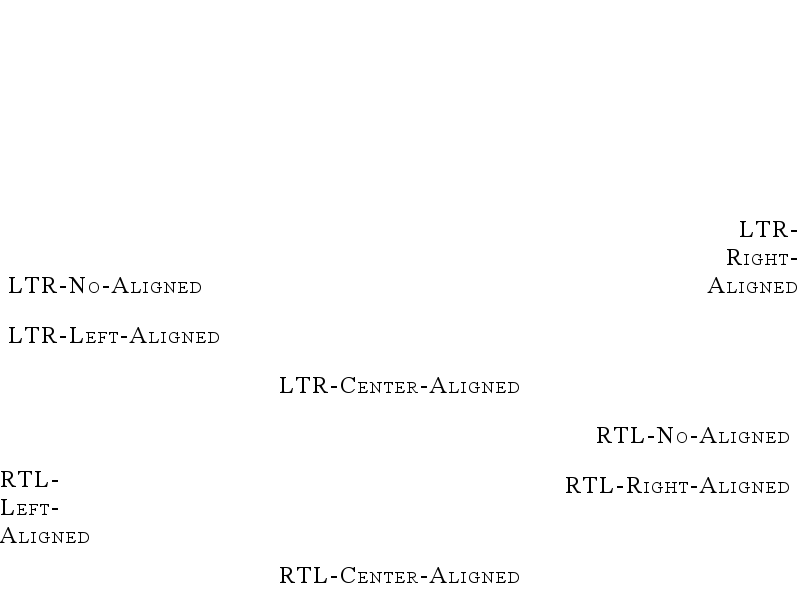
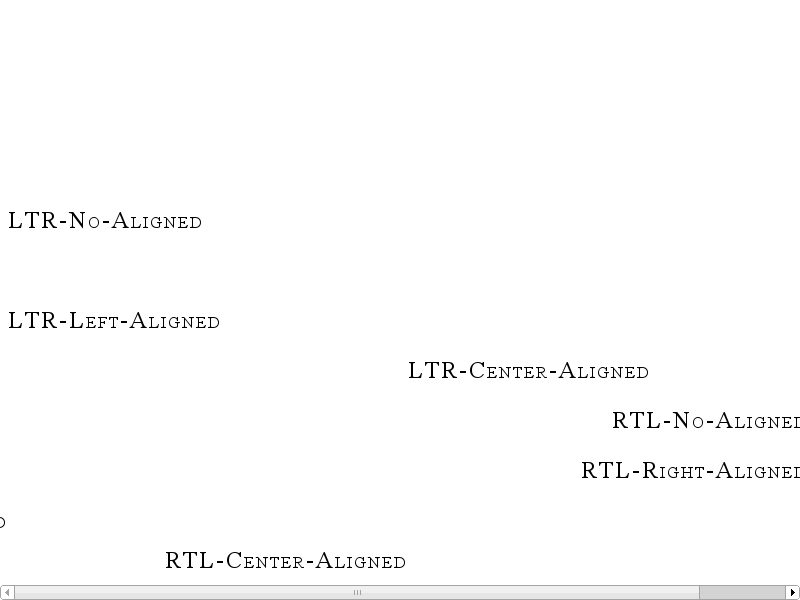
REGRESSION (r94492): Unstable layout of static block inside text-align: center div https://bugs.webkit.org/show_bug.cgi?id=77754
Reviewed by David Hyatt.

Source/WebCore:

Text-align of 'center' on an out-of-flow element determines its x-position in the line - it
doesn't mean that the element should be centred in the line as though it were a block of text.

This is a partial revert of http://trac.webkit.org/changeset/113584 and a correction to
http://trac.webkit.org/changeset/94492.

Tests: fast/css/center-align-absolute-position-inline-block.html
       fast/css/center-align-absolute-position.html

* rendering/RenderBlock.cpp:
(WebCore::RenderBlock::layoutPositionedObjects): Remove an update to the static position when
  it depended on the child's width. Reverts code added in r113584.
* rendering/RenderBlock.h:
(RenderBlock): Remove child parameter from startAlignedOffsetForLine()
* rendering/RenderBlockLineLayout.cpp:
(WebCore::setStaticPositions): ditto
(WebCore::RenderBlock::startAlignedOffsetForLine): No need to account for the child's width when calculating
  the offset for the line.

LayoutTests:

* fast/css/align-positioned-object-on-resize-expected.txt: Removed.
* fast/css/align-positioned-object-on-resize.html: Removed.
* fast/css/bug4860-absolute-inline-child-inherits-alignment-expected.png: Removed.
* fast/css/bug4860-absolute-inline-child-inherits-alignment-expected.txt: Removed.
* fast/css/bug4860-absolute-inline-child-inherits-alignment.html: Removed.
    These tests are no longer valid. They expect an out-of-flow block to align with the
[…]

diff --git a/fast/inline/left-right-center-inline-alignment-in-ltr-and-rtl-blocks.html b/fast/inline/left-right-center-inline-alignment-in-ltr-and-rtl-blocks.html
@@ -4,7 +4,7 @@
     'Hello World, And Stuff!' should be aligned 150 pixels to the left of the center.
     https://bugs.webkit.org/show_bug.cgi?id=4860-->
 </head>
-<body>
+<body style="width: 800px;">
 
 <div align="center" style="direction: rtl;">
 <font style="font-size:24px; font-variant:small-caps;letter-spacing:2px; position:absolute; bottom:10px;">RTL-Center-Aligned</font>
@@ -35,7 +35,7 @@
 </div>
 
 <div style="direction: ltr;">
-<font style="font-size:24px; font-variant:small-caps;letter-spacing:2px; position:absolute; bottom:300px;">LTR-No-Aligned</font>
+<font style="font-size:24px; font-variant:small-caps;letter-spacing:2px; position:absolute; bottom:350px;">LTR-No-Aligned</font>
 </div>
 
 </body></html>

diff --git a/fast/css/center-align-absolute-position-inline-block.html b/fast/css/center-align-absolute-position-inline-block.html
@@ -1,0 +1,24 @@
+<html>
+<head>
+    <style>
+    #block {
+        margin: 0px;
+        padding: 0px;
+        position: absolute;
+        width: 200px;
+        background: blue;
+        height: 20px;
+        display: inline-block;
+    }
+    </style>
+</head>
+<body style="width: 800px;">
+    <p> The two blue bars should be aligned with each other. </p>
+    <div style="text-align: center" >
+        <span style="position: absolute;">
+            <div id="block"></div>
+        </span>
+    </div>
+    <div id="block" style="position: absolute; top: 80px; left: 408px;"></div>
+</body>
+</html>

diff --git a/fast/css/center-align-absolute-position.html b/fast/css/center-align-absolute-position.html
@@ -1,0 +1,23 @@
+<html>
+<head>
+    <style>
+    #block {
+        margin: 0px;
+        padding: 0px;
+        position: absolute;
+        width: 200px;
+        background: blue;
+        height: 20px;
+    }
+    </style>
+</head>
+<body style="width: 800px;">
+    <p> The two blue bars should be aligned with each other. </p>
+    <div style="text-align: center" >
+        <span style="position: absolute;">
+            <div id="block"></div>
+        </span>
+    </div>
+    <div id="block" style="position: absolute; top: 80px; left: 408px;"></div>
+</body>
+</html>

diff --git a/fast/css/center-align-absolute-position-expected.html b/fast/css/center-align-absolute-position-expected.html
@@ -1,0 +1,19 @@
+<html>
+<head>
+    <style>
+    #block {
+        margin: 0px;
+        padding: 0px;
+        position: absolute;
+        width: 200px;
+        background: blue;
+        height: 20px;
+    }
+    </style>
+</head>
+<body style="width: 800px;">
+    <p> The two blue bars should be aligned with each other. </p>
+    <div id="block" style="position: absolute; top: 44px; left: 408px;"></div>
+    <div id="block" style="position: absolute; top: 80px; left: 408px;"></div>
+</body>
+</html>

diff --git a/fast/css/center-align-absolute-position-inline-block-expected.html b/fast/css/center-align-absolute-position-inline-block-expected.html
@@ -1,0 +1,19 @@
+<html>
+<head>
+    <style>
+    #block {
+        margin: 0px;
+        padding: 0px;
+        position: absolute;
+        width: 200px;
+        background: blue;
+        height: 20px;
+    }
+    </style>
+</head>
+<body style="width: 800px;">
+    <p> The two blue bars should be aligned with each other. </p>
+    <div id="block" style="position: absolute; top: 44px; left: 408px;"></div>
+    <div id="block" style="position: absolute; top: 80px; left: 408px;"></div>
+</body>
+</html>
